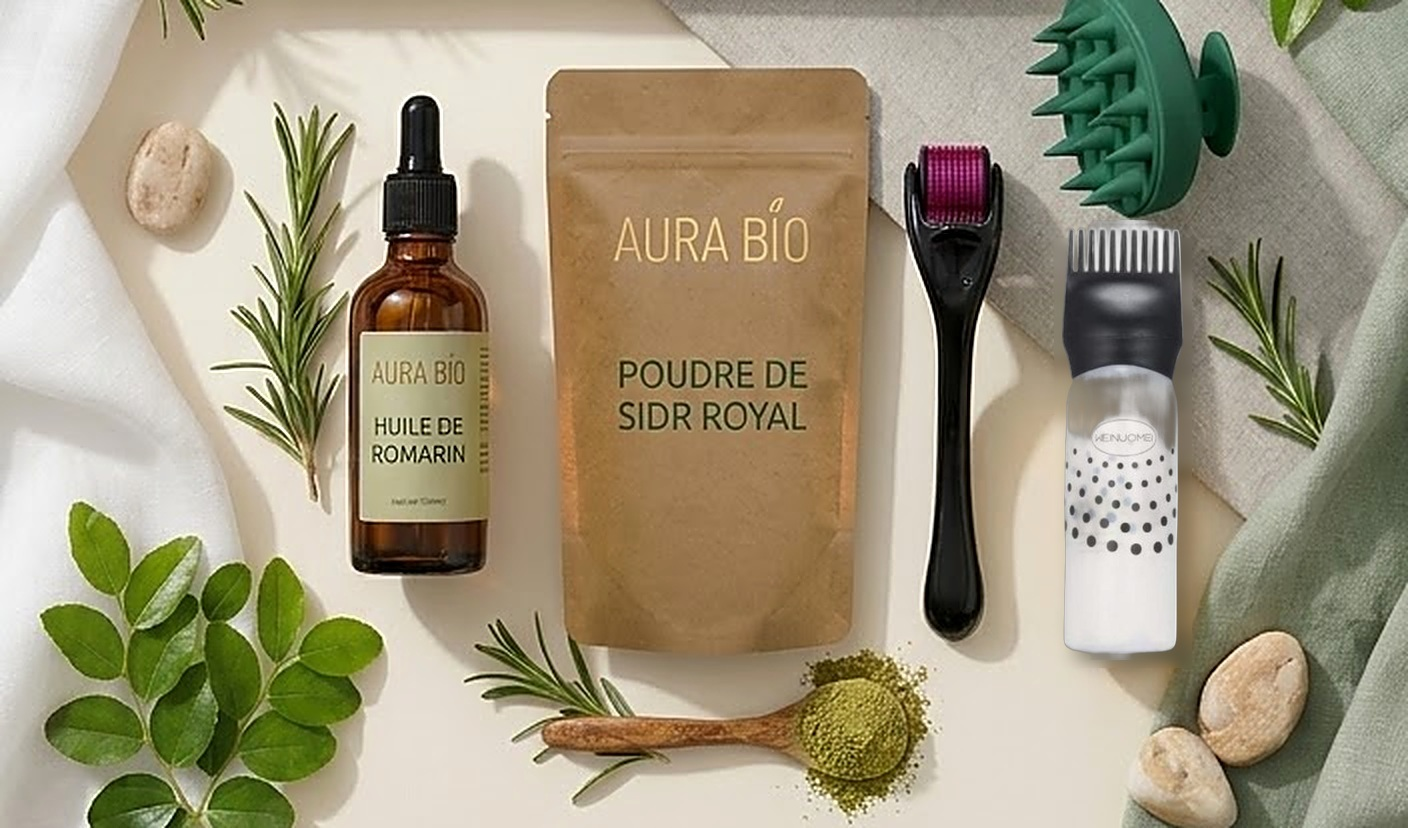
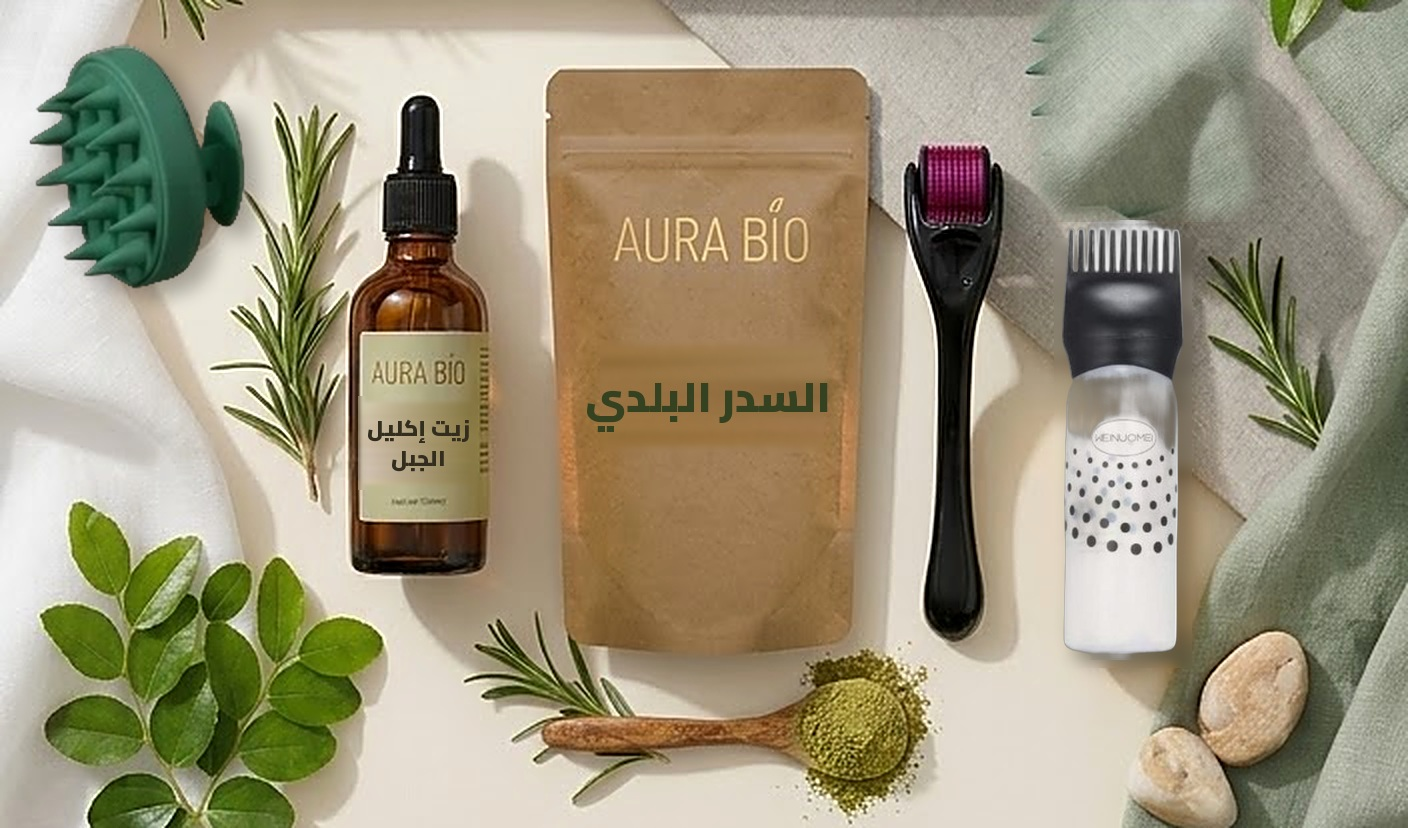
Real-kit photo: brush moved to the left, Arabic product names on sidr pouch and rosemary bottle; reproducible build script
Claude-Session: https://claude.ai/code/session_01FhwxWW9SZQzQKUB1AtjoA4

diff --git a/src/statics/RealPackAd.tsx b/src/statics/RealPackAd.tsx
@@ -449,7 +449,7 @@ const KIT_ITEMS = [
   { n: 2, name: "زيت إكليل الجبل", benefit: "يغذّي البصيلات و يقلّل الطيحان", x: 298, y: 392 },
   { n: 3, name: "ديرما رولر 540", benefit: "ينشّط الدورة الدموية و يدخّل الزيت للجذور", x: 678, y: 36 },
   { n: 4, name: "مشط الجذور", benefit: "يوصّل الزيت للجذور بلا تبذير", x: 797, y: 100 },
-  { n: 5, name: "فرشة التدليك", benefit: "تدلّك الفروة و تفيّق البصيلات", x: 860, y: 46 },
+  { n: 5, name: "فرشة التدليك", benefit: "تدلّك الفروة و تفيّق البصيلات", x: 178, y: 40 },
 ];
 
 const NumBadge: React.FC<{

diff --git a/scripts/build_kit_photo.py b/scripts/build_kit_photo.py
@@ -1,0 +1,101 @@
+"""Builds public/products/photo/kit-flatlay.jpg from the kit flat-lay source photo.
+
+Steps: crop the products band and upscale; swap the green applicator for the real
+white dotted one; move the scalp brush to the left; rewrite the product names
+on the sidr pouch and the rosemary bottle in Arabic.
+Needs: Pillow with raqm (Arabic shaping) and rembg.
+"""
+from PIL import Image, ImageDraw, ImageFilter, ImageFont, ImageEnhance
+import random
+from rembg import remove, new_session
+
+ROOT = "/home/user/remotion/"
+SRC = ROOT + "assets/source-images/kit-flatlay-source.jpg"
+OUT = ROOT + "public/products/photo/kit-flatlay.jpg"
+FONT = ROOT + "public/fonts/Cairo.ttf"
+
+src = Image.open(SRC).convert("RGB")
+
+
+def kit_xy(x, y):  # source coords -> kit coords (crop y 592, scale 2)
+    return (x * 2, (y - 592) * 2)
+
+
+im = src.crop((0, 592, 704, 1006)).resize((1408, 828), Image.LANCZOS)
+im = im.filter(ImageFilter.UnsharpMask(radius=2, percent=80, threshold=2))
+im = ImageEnhance.Contrast(im).enhance(1.04)
+
+
+def fill_rows(img, x0, x1, y0, y1, blur=5, noise=0):
+    """Paint a box by blending the colours just left and right of it, row by row."""
+    px = img.load()
+    rnd = random.Random(3)
+    for y in range(y0, y1):
+        L = px[x0 - 4, y]
+        R = px[x1 + 4, y]
+        for x in range(x0, x1):
+            t = (x - x0) / (x1 - x0)
+            n = rnd.randint(-noise, noise) if noise else 0
+            px[x, y] = tuple(max(0, min(255, int(L[i] * (1 - t) + R[i] * t) + n)) for i in range(3))
+    if blur:
+        p = img.crop((x0 - 6, y0 - 6, x1 + 6, y1 + 6)).filter(ImageFilter.GaussianBlur(blur))
+        if noise:
+            p = Image.eval(p, lambda v: v)
+        img.paste(p, (x0 - 6, y0 - 6))
+
+
+def paste_with_shadow(base, obj, x, y, dx=14, dy=12, strength=0.35):
+    sh = Image.new("RGBA", base.size, (0, 0, 0, 0))
+    a = obj.split()[3].point(lambda v: int(v * strength))
+    sh.paste((40, 30, 20, 255), (x + dx, y + dy), a)
+    sh = sh.filter(ImageFilter.GaussianBlur(9))
+    base = Image.alpha_composite(base, sh)
+    base.alpha_composite(obj, (x, y))
+    return base
+
+
+# 1) brush: cut it from the source (full height there), erase it top-right
+sess = new_session("isnet-general-use")
+brush = remove(src.crop((500, 560, 645, 705)), session=sess)
+brush = brush.crop(brush.getbbox())
+a = brush.split()[3].point(lambda v: 0 if v < 110 else (255 if v > 200 else int((v - 110) * 255 / 90)))
+brush.putalpha(a)
+brush = brush.resize((brush.width * 2, brush.height * 2), Image.LANCZOS)
+# cover the old spot with real cloth texture taken from the source, above the crop
+cloth = src.crop((528, 325, 644, 436)).resize((232, 222), Image.LANCZOS)
+mask = Image.new("L", cloth.size, 0)
+ImageDraw.Draw(mask).rounded_rectangle((8, 0, 224, 214), radius=30, fill=255)
+mask = mask.filter(ImageFilter.GaussianBlur(8))
+im.paste(cloth, (1030, 0), mask)
+
+# 2) applicator: green one -> real white dotted one
+fill_rows(im, 1060, 1186, 244, 662, blur=5)
+base = im.convert("RGBA")
+ap = Image.open(ROOT + "public/products/photo/applicator.png").convert("RGBA")
+H = 440
+W = int(ap.width * H / ap.height)
+ap = ap.resize((W, H), Image.LANCZOS)
+base = paste_with_shadow(base, ap, 1123 - W // 2, 660 - H)
+
+# brush on the left, on the white cloth
+base = paste_with_shadow(base, brush, 24, 40)
+im = base.convert("RGB")
+
+# 3) Arabic names
+d = ImageDraw.Draw(im)
+# sidr pouch: replace "POUDRE DE SIDR ROYAL"
+fill_rows(im, 606, 818, 346, 446, blur=3, noise=5)
+d = ImageDraw.Draw(im)
+f = ImageFont.truetype(FONT, 42)
+f.set_variation_by_axes([900])
+d.text((708, 396), "السدر البلدي", font=f, fill=(52, 66, 34), anchor="mm", direction="rtl")
+# rosemary bottle label: replace "HUILE DE ROMARIN"
+fill_rows(im, 364, 472, 402, 484, blur=2)
+d = ImageDraw.Draw(im)
+f2 = ImageFont.truetype(FONT, 22)
+f2.set_variation_by_axes([900])
+d.text((418, 428), "زيت إكليل", font=f2, fill=(50, 45, 30), anchor="mm", direction="rtl")
+d.text((418, 458), "الجبل", font=f2, fill=(50, 45, 30), anchor="mm", direction="rtl")
+
+im.save(OUT, quality=94)
+print("saved", OUT, im.size)
